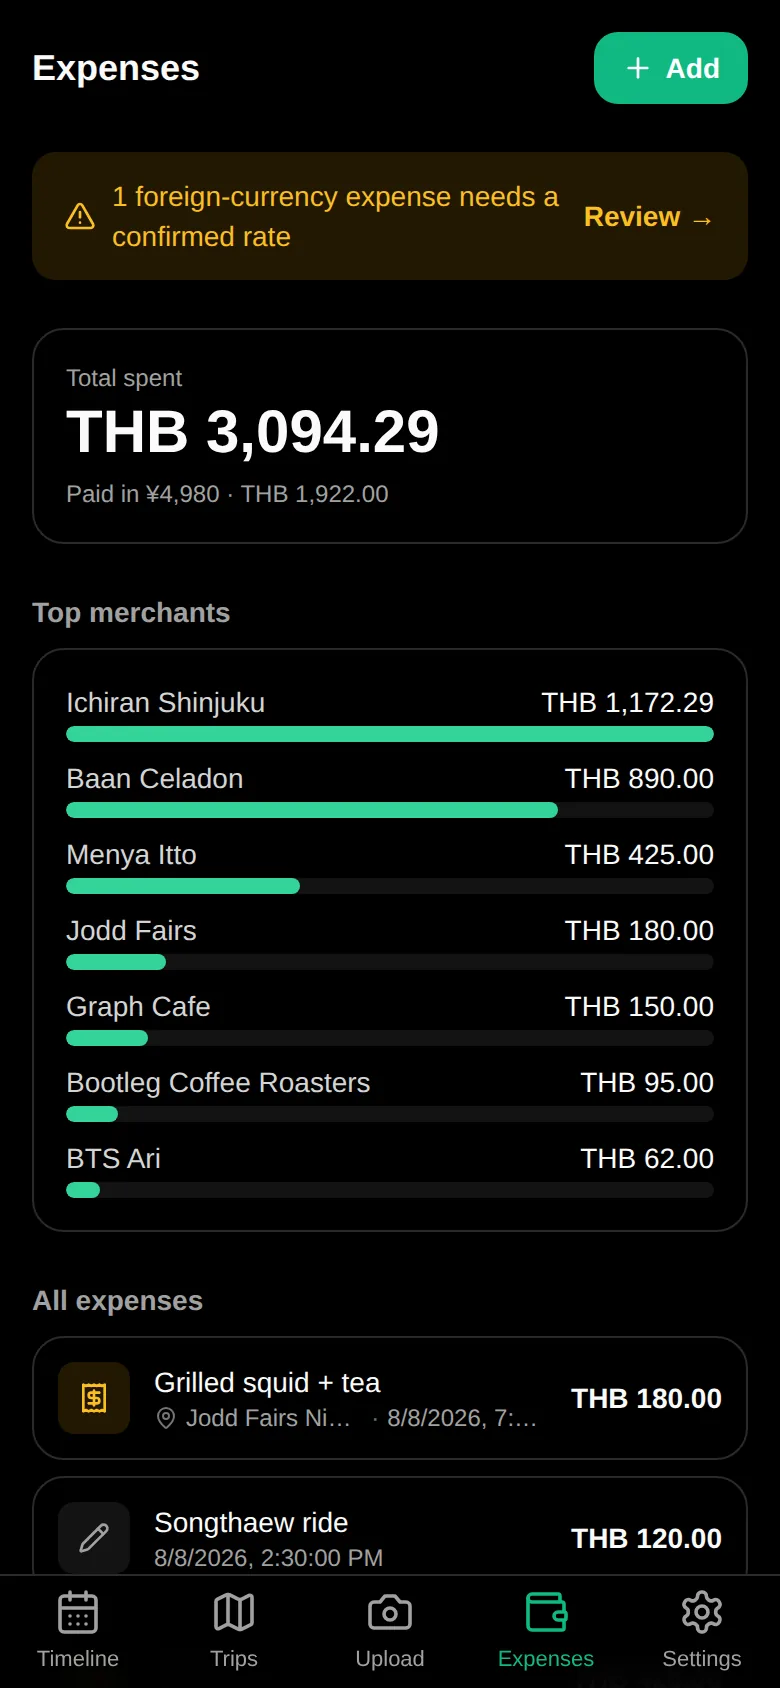
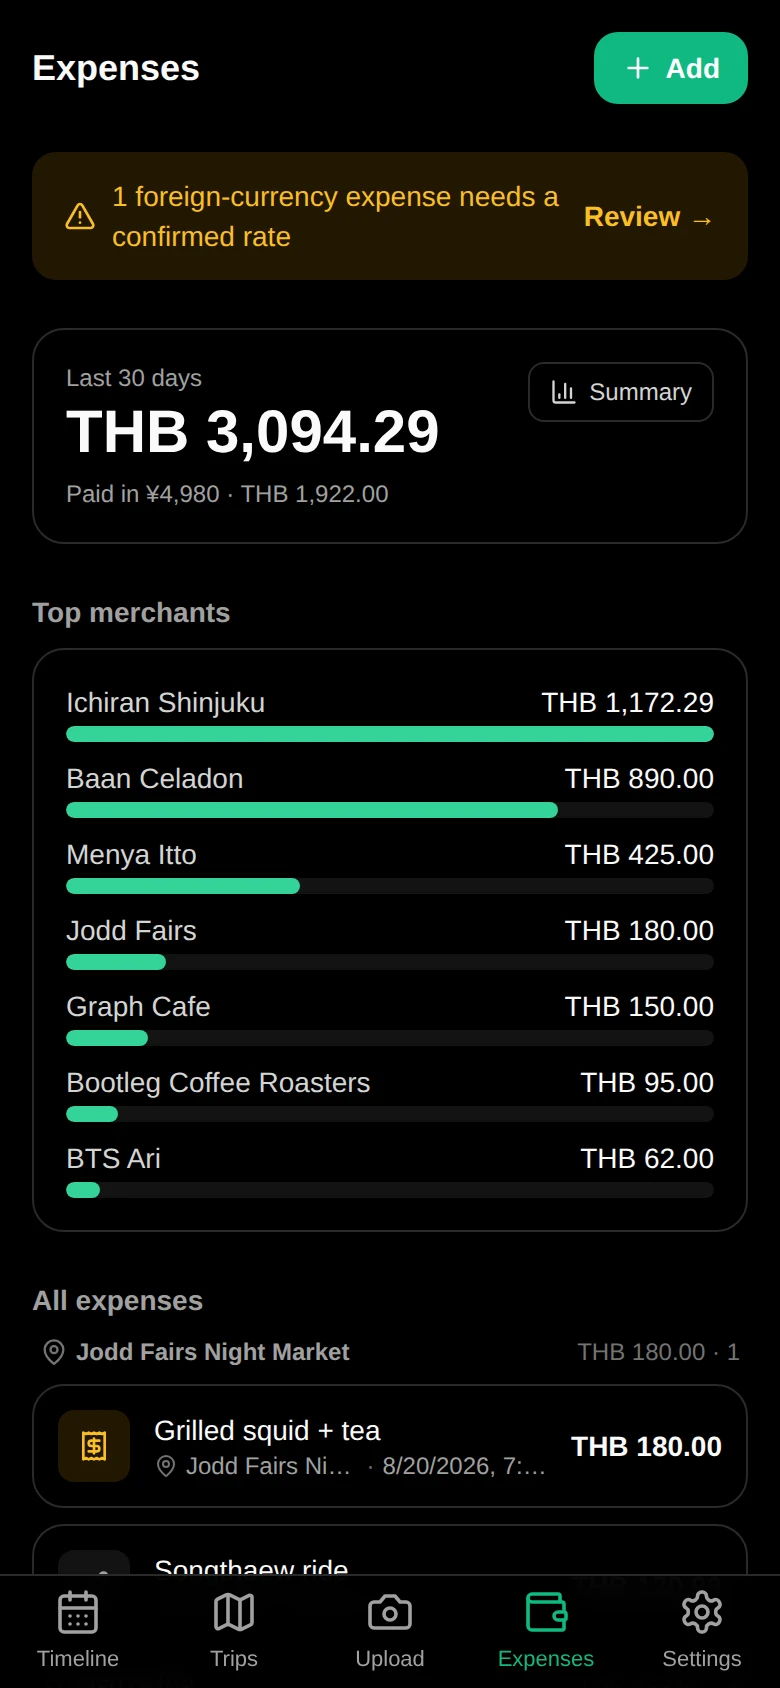
Add expense summary modal with 7/30-day and to-date totals (#24)
* Add expense summary modal with 7/30-day and to-date totals

Adds a Summary button on the expenses page that opens a modal showing
spend for last 7 days, week to date, last 30 days, and month to date,
reusing the existing date-ranged /expenses/summary endpoint.

Claude-Session: https://claude.ai/code/session_01UgxiYEMzUPgf5tEtBNZPtz

* Split the summary modal into stat tiles and a trend chart

Four headline totals (7d, WTD, 30d, MTD) are single numbers, so they
read as a 2x2 KPI tile grid rather than a plain list. Added a daily
spend bar chart for the last 30 days underneath, since the totals
alone don't show whether spending is trending up or came from one big
day — single brand hue, today picked out in the darker step, minimum
bar height so zero-spend days stay visible.

Claude-Session: https://claude.ai/code/session_01UgxiYEMzUPgf5tEtBNZPtz

* Add expense summary screenshots to the README

Light and dark captures of the new spending summary modal, sized and
compressed to match the rest of docs/screenshots.

Claude-Session: https://claude.ai/code/session_01UgxiYEMzUPgf5tEtBNZPtz

* Scope the expenses page card to last 30 days, move all-time total into the summary modal

The page card was an all-time total that never moved; the modal already
broke spend into 7d/30d/WTD/MTD but had no all-time figure. Swap them:
the page card now shows the last-30-day total (the number a snapshot
of "how am I doing" actually wants) and is itself the button into the
[…]

diff --git a/frontend/src/components/ExpenseSummaryModal.tsx b/frontend/src/components/ExpenseSummaryModal.tsx
@@ -1,0 +1,186 @@
+import { X } from 'lucide-react';
+import { useMemo } from 'react';
+import { useExpenseSummary, useExpenses } from '../hooks/useData';
+import {
+  formatMoney,
+  formatMoneyCompact,
+  localDateString,
+  shiftDate,
+  startOfWeek,
+  wallClockBound,
+  wallClockDay,
+} from '../lib/format';
+
+type RangeKey = 'last7' | 'wtd' | 'last30' | 'mtd';
+
+const RANGE_LABELS: Record<RangeKey, string> = {
+  last7: 'Last 7 days',
+  wtd: 'Week to date',
+  last30: 'Last 30 days',
+  mtd: 'Month to date',
+};
+
+function useRanges(): Record<RangeKey, { from: string; to: string }> {
+  const today = localDateString(new Date());
+  const to = wallClockBound(shiftDate(today, 1));
+  return {
+    last7: { from: wallClockBound(shiftDate(today, -6)), to },
+    wtd: { from: wallClockBound(startOfWeek(today)), to },
+    last30: { from: wallClockBound(shiftDate(today, -29)), to },
+    mtd: { from: wallClockBound(`${today.slice(0, 7)}-01`), to },
+  };
+}
+
+/** The headline figure — spend with no date bound at all, so it reads at a
+ *  glance above the four scoped tiles below it. */
+function TotalSpentCard() {
+  const { data, isLoading } = useExpenseSummary();
+  return (
+    <div className="rounded-2xl border border-line bg-surface p-4">
+      <p className="text-xs text-ink-3">Total spent</p>
+      <p className="mt-0.5 text-3xl font-bold text-ink tabular-nums">
+        {isLoading || !data ? '—' : formatMoney(data.spend.base_total_minor, data.spend.base_currency)}
+      </p>
+      {data && data.spend.by_currency.length > 1 && (
+        <p className="mt-1 text-xs text-ink-3">
+          Paid in{' '}
+          {data.spend.by_currency.map((c) => formatMoney(c.total_minor, c.currency)).join(' · ')}
+        </p>
+      )}
+    </div>
+  );
+}
+
+/** One headline total — a stat tile, not a chart: each range answers a single
+ *  "how much" question, so the number is the whole story. */
+function SummaryTile({
+  label,
+  from,
+  to,
+}: {
+  label: string;
+  from: string;
+  to: string;
+}) {
+  const { data, isLoading } = useExpenseSummary(from, to);
+  return (
+    <div className="rounded-xl border border-line bg-surface p-3">
+      <p className="text-xs text-ink-3">{label}</p>
+      <p className="mt-1 text-xl font-semibold text-ink">
+        {isLoading || !data
+          ? '—'
+          : formatMoneyCompact(data.spend.base_total_minor, data.spend.base_currency)}
+      </p>
+    </div>
+  );
+}
+
+const CHART_DAYS = 30;
+
+/** Where the trend actually moved, day by day — a bar chart, not a tile: the
+ *  point is the shape over time, which a single number can't carry. Single
+ *  hue (magnitude, not identity), today picked out in the darker step. */
+function DailySpendChart({ baseCurrency }: { baseCurrency: string }) {
+  const today = localDateString(new Date());
+  const from = wallClockBound(shiftDate(today, -(CHART_DAYS - 1)));
+  const to = wallClockBound(shiftDate(today, 1));
+  const { data: expenses, isLoading } = useExpenses(undefined, from, to);
+
+  const days = useMemo(() => {
+    const keys = Array.from({ length: CHART_DAYS }, (_, i) =>
+      shiftDate(today, -(CHART_DAYS - 1 - i))
+    );
+    const totals = new Map(keys.map((k) => [k, 0]));
+    for (const expense of expenses ?? []) {
+      if (!expense.spent_at || expense.base_total_minor == null) continue;
+      const day = wallClockDay(expense.spent_at);
+      if (totals.has(day)) totals.set(day, (totals.get(day) ?? 0) + expense.base_total_minor);
+    }
+    return keys.map((date) => ({ date, total: totals.get(date) ?? 0 }));
+  }, [expenses, today]);
+
+  const max = Math.max(...days.map((d) => d.total), 1);
+
+  return (
+    <section className="space-y-2">
+      <h3 className="text-sm font-semibold text-ink-3">Daily spend — last 30 days</h3>
+      <div className="rounded-xl border border-line bg-surface p-3">
+        {isLoading ? (
+          <p className="py-6 text-center text-xs text-ink-4">Loading…</p>
+        ) : (
+          <>
+            <div className="flex h-24 items-end gap-[2px]">
+              {days.map(({ date, total }) => (
+                <div
+                  key={date}
+                  title={`${date}: ${formatMoney(total, baseCurrency)}`}
+                  className={`min-w-0 flex-1 rounded-t-[2px] ${
+                    date === today ? 'bg-brand-600' : 'bg-brand-500'
+                  }`}
+                  style={{ height: `${Math.max((total / max) * 100, 3)}%` }}
+                />
+              ))}
+            </div>
+            <div className="mt-1.5 flex justify-between text-[10px] text-ink-4">
+              <span>{days[0].date}</span>
+              <span>Today</span>
+            </div>
+          </>
+        )}
+      </div>
+    </section>
+  );
+}
+
+export function ExpenseSummaryModal({
+  baseCurrency,
+  onClose,
+}: {
+  baseCurrency: string;
+  onClose: () => void;
+}) {
+  const ranges = useRanges();
+
+  return (
+    <div
+      className="fixed inset-0 z-50 flex items-end justify-center bg-black/70 dark:bg-black/85 md:items-center"
+      onClick={onClose}
+    >
+      <div
+        className="max-h-[92dvh] w-full max-w-lg overflow-y-auto rounded-t-2xl bg-surface p-4 ring-1 ring-line md:rounded-2xl"
+        onClick={(e) => e.stopPropagation()}
+      >
+        <div className="mb-3 flex items-center justify-between">
+          <h2 className="text-base font-bold text-ink">Spending summary</h2>
+          <button
+            type="button"
+            onClick={onClose}
+            className="rounded-full p-1.5 text-ink-3 active:bg-surface-2"
+            aria-label="Close"
+          >
+            <X className="size-5" />
+          </button>
+        </div>
+
+        <div className="mb-4">
+          <TotalSpentCard />
+        </div>
+
+        <div className="grid grid-cols-2 gap-2">
+          {(Object.keys(RANGE_LABELS) as RangeKey[]).map((key) => (
+            <SummaryTile
+              key={key}
+              label={RANGE_LABELS[key]}
+              from={ranges[key].from}
+              to={ranges[key].to}
+            />
+          ))}
+        </div>
+
+        <div className="mt-4">
+          <DailySpendChart baseCurrency={baseCurrency} />
+        </div>
+      </div>
+    </div>
+  );
+}

diff --git a/frontend/src/pages/ExpensesPage.tsx b/frontend/src/pages/ExpensesPage.tsx
@@ -1,5 +1,6 @@
 import {
   AlertTriangle,
+  BarChart3,
   ChevronLeft,
   ChevronRight,
   MapPin,
@@ -11,6 +12,7 @@ import {
 import { useEffect, useState } from 'react';
 import { ExpenseSheet } from '../components/ExpenseSheet';
 import { ConfirmRateSheet } from '../components/ConfirmRateSheet';
+import { ExpenseSummaryModal } from '../components/ExpenseSummaryModal';
 import { ImageModal } from '../components/ImageModal';
 import { useAuth } from '../context/AuthContext';
 import {
@@ -20,7 +22,7 @@ import {
   useExpensesGrouped,
   useImage,
 } from '../hooks/useData';
-import { formatDateTime, formatMoney } from '../lib/format';
+import { formatDateTime, formatMoney, last30DayRange } from '../lib/format';
 import type { Expense, ExpenseGroup, MerchantTotal } from '../types';
 
 /** Single-hue magnitude bars: one series, values in ink rather than series color. */
@@ -263,12 +265,15 @@ export function ExpensesPage() {
   const { user } = useAuth();
   const baseCurrency = user?.preferred_currency ?? 'THB';
   const { data: summary } = useExpenseSummary();
+  const { from: last30From, to: last30To } = last30DayRange();
+  const { data: last30 } = useExpenseSummary(last30From, last30To);
   const { data: needsReview } = useExpenses(true);
   const [page, setPage] = useState(1);
   const { data: expensePage, isLoading, isFetching } = useExpensesGrouped(page);
   const [adding, setAdding] = useState(false);
   const [editing, setEditing] = useState<Expense | null>(null);
   const [confirming, setConfirming] = useState<Expense | null>(null);
+  const [showSummary, setShowSummary] = useState(false);
 
   const totalPages = expensePage?.total_pages ?? 1;
   // Deleting the last expense on the last page would otherwise strand the
@@ -305,21 +310,32 @@ export function ExpensesPage() {
         </button>
       )}
 
-      {summary && (
-        <div className="rounded-2xl border border-line bg-surface p-4">
-          <p className="text-xs text-ink-3">Total spent</p>
-          <p className="mt-0.5 text-3xl font-bold text-ink tabular-nums">
-            {formatMoney(summary.spend.base_total_minor, summary.spend.base_currency)}
-          </p>
-          {summary.spend.by_currency.length > 1 && (
+      {last30 && (
+        <button
+          type="button"
+          onClick={() => setShowSummary(true)}
+          className="w-full rounded-2xl border border-line bg-surface p-4 text-left active:bg-surface-2"
+        >
+          <div className="flex items-start justify-between gap-2">
+            <div>
+              <p className="text-xs text-ink-3">Last 30 days</p>
+              <p className="mt-0.5 text-3xl font-bold text-ink tabular-nums">
+                {formatMoney(last30.spend.base_total_minor, last30.spend.base_currency)}
+              </p>
+            </div>
+            <span className="flex shrink-0 items-center gap-1.5 rounded-lg border border-line px-2.5 py-1.5 text-xs font-medium text-ink-2">
+              <BarChart3 className="size-3.5" /> Summary
+            </span>
+          </div>
+          {last30.spend.by_currency.length > 1 && (
             <p className="mt-1 text-xs text-ink-3">
               Paid in{' '}
-              {summary.spend.by_currency
+              {last30.spend.by_currency
                 .map((c) => formatMoney(c.total_minor, c.currency))
                 .join(' · ')}
             </p>
           )}
-        </div>
+        </button>
       )}
 
       {summary && summary.by_merchant.length > 0 && (
@@ -385,6 +401,9 @@ export function ExpensesPage() {
       )}
       {confirming && (
         <ConfirmRateSheet expense={confirming} onClose={() => setConfirming(null)} />
+      )}
+      {showSummary && (
+        <ExpenseSummaryModal baseCurrency={baseCurrency} onClose={() => setShowSummary(false)} />
       )}
     </div>
   );

diff --git a/frontend/src/hooks/useData.ts b/frontend/src/hooks/useData.ts
@@ -148,11 +148,15 @@ export function useDeleteTrip() {
   });
 }
 
-export function useExpenses(needsReview?: boolean) {
-  const query = needsReview === undefined ? '' : `?needs_review=${needsReview}`;
+export function useExpenses(needsReview?: boolean, dateFrom?: string, dateTo?: string) {
+  const params = new URLSearchParams();
+  if (needsReview !== undefined) params.set('needs_review', String(needsReview));
+  if (dateFrom) params.set('date_from', dateFrom);
+  if (dateTo) params.set('date_to', dateTo);
+  const qs = params.toString();
   return useQuery({
-    queryKey: ['expenses', 'list', needsReview ?? 'all'],
-    queryFn: () => apiJson<Expense[]>(`/api/expenses${query}`),
+    queryKey: ['expenses', 'list', needsReview ?? 'all', dateFrom ?? null, dateTo ?? null],
+    queryFn: () => apiJson<Expense[]>(`/api/expenses${qs ? `?${qs}` : ''}`),
   });
 }
 
@@ -206,10 +210,14 @@ export function useDeleteExpense() {
   });
 }
 
-export function useExpenseSummary() {
+export function useExpenseSummary(dateFrom?: string, dateTo?: string) {
+  const params = new URLSearchParams();
+  if (dateFrom) params.set('date_from', dateFrom);
+  if (dateTo) params.set('date_to', dateTo);
+  const qs = params.toString();
   return useQuery({
-    queryKey: ['expenses', 'summary'],
-    queryFn: () => apiJson<ExpenseSummary>('/api/expenses/summary'),
+    queryKey: ['expenses', 'summary', dateFrom ?? null, dateTo ?? null],
+    queryFn: () => apiJson<ExpenseSummary>(`/api/expenses/summary${qs ? `?${qs}` : ''}`),
   });
 }
 

diff --git a/frontend/src/lib/format.ts b/frontend/src/lib/format.ts
@@ -144,6 +144,18 @@ export function formatTripRange(trip: {
   return `${formatDay(trip.started_at)} – ${formatDay(trip.ended_at)} · ${days}`;
 }
 
+/** A bare date reused as a midnight instant, the wall-clock convention the
+ *  API expects for `date_from`/`date_to` — same as `fromWallClockInput`. */
+export function wallClockBound(dateStr: string): string {
+  return `${dateStr}T00:00:00Z`;
+}
+
+/** The last 30 days including today, as API-ready date bounds. */
+export function last30DayRange(): { from: string; to: string } {
+  const today = localDateString(new Date());
+  return { from: wallClockBound(shiftDate(today, -29)), to: wallClockBound(shiftDate(today, 1)) };
+}
+
 export function localDateString(date: Date): string {
   const y = date.getFullYear();
   const m = String(date.getMonth() + 1).padStart(2, '0');

diff --git a/README.md b/README.md
@@ -28,6 +28,10 @@ places, expenses, and trips.
 | --- | --- | --- |
 | ![A suggested place, with why it was picked and recent comments](docs/screenshots/recommendation.webp) | ![List of trips the user has created](docs/screenshots/trips.webp) | ![The sign-in form](docs/screenshots/login.webp) |
 
+| Expense summary |
+| --- |
+| ![Spending summary modal with 7/30-day and to-date totals plus a daily spend chart](docs/screenshots/expense-summary.webp) |
+
 ![Desktop layout with a sidebar](docs/screenshots/desktop.webp)
 
 <details>
@@ -44,6 +48,10 @@ places, expenses, and trips.
 | Recommendation | Trips | Sign in |
 | --- | --- | --- |
 | ![A suggested place in dark mode](docs/screenshots/recommendation-dark.webp) | ![List of trips in dark mode](docs/screenshots/trips-dark.webp) | ![The sign-in form in dark mode](docs/screenshots/login-dark.webp) |
+
+| Expense summary |
+| --- |
+| ![Spending summary modal in dark mode](docs/screenshots/expense-summary-dark.webp) |
 
 ![Desktop layout in dark mode](docs/screenshots/desktop-dark.webp)
 
